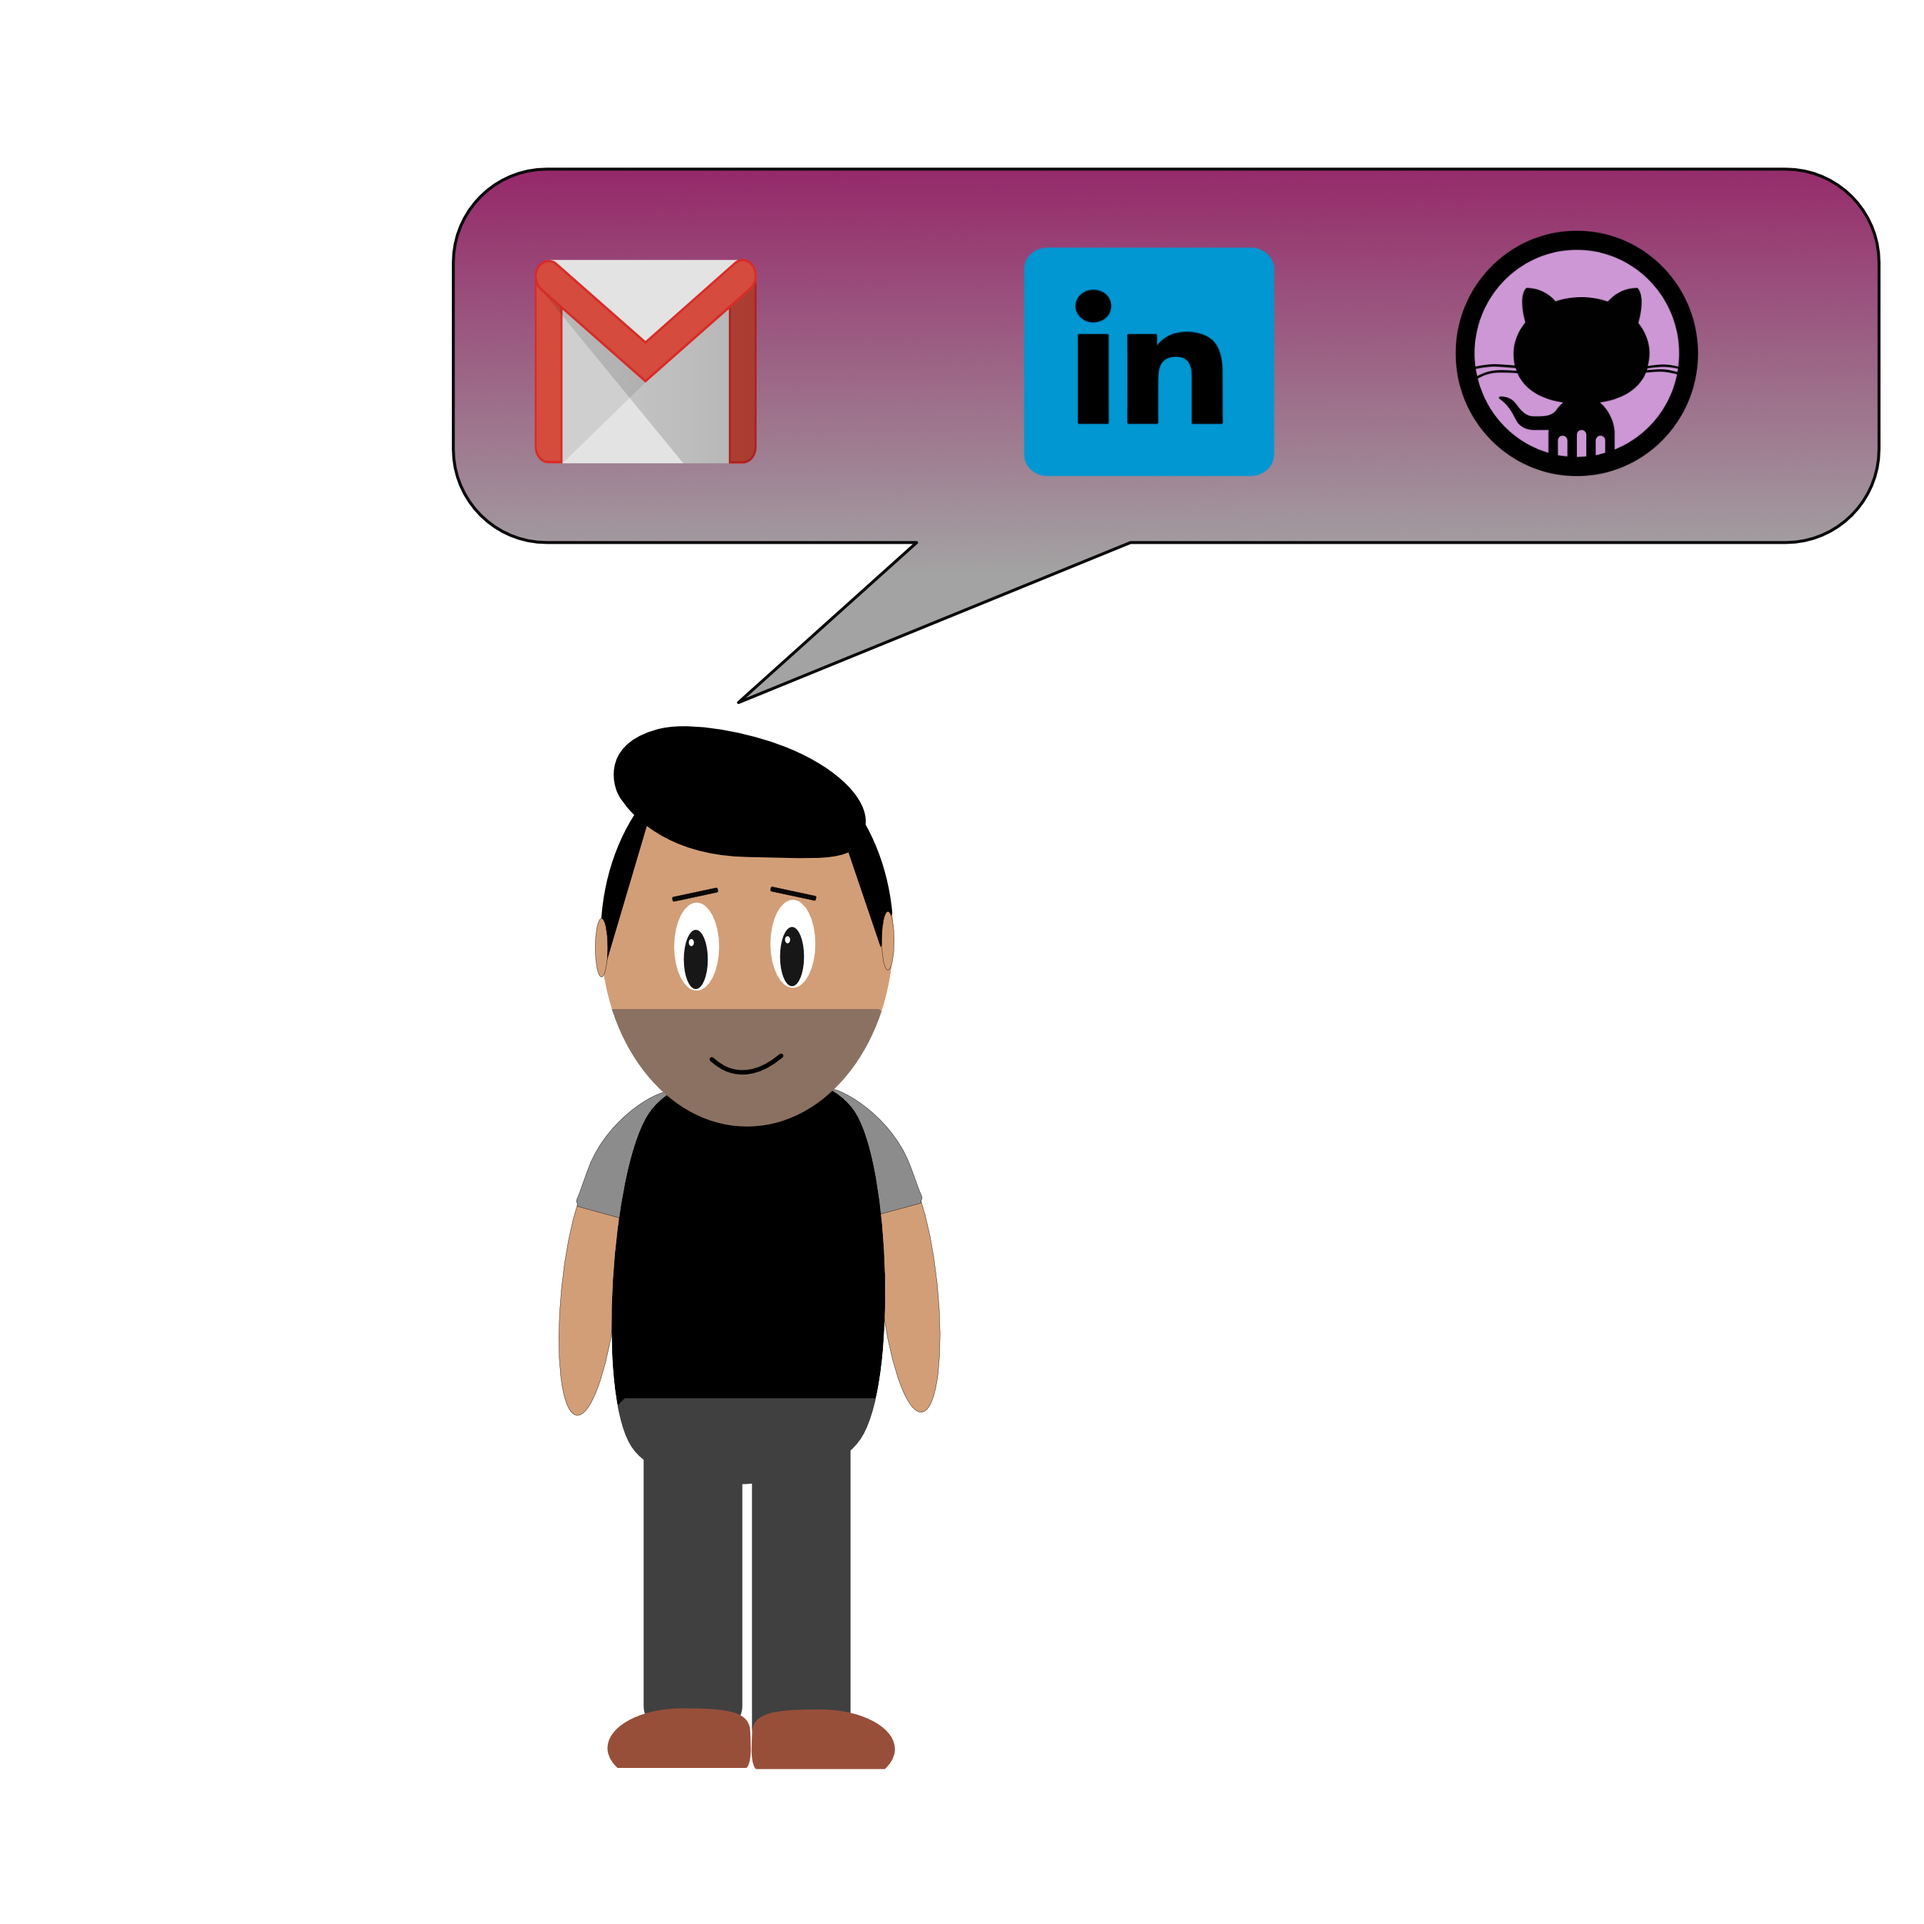
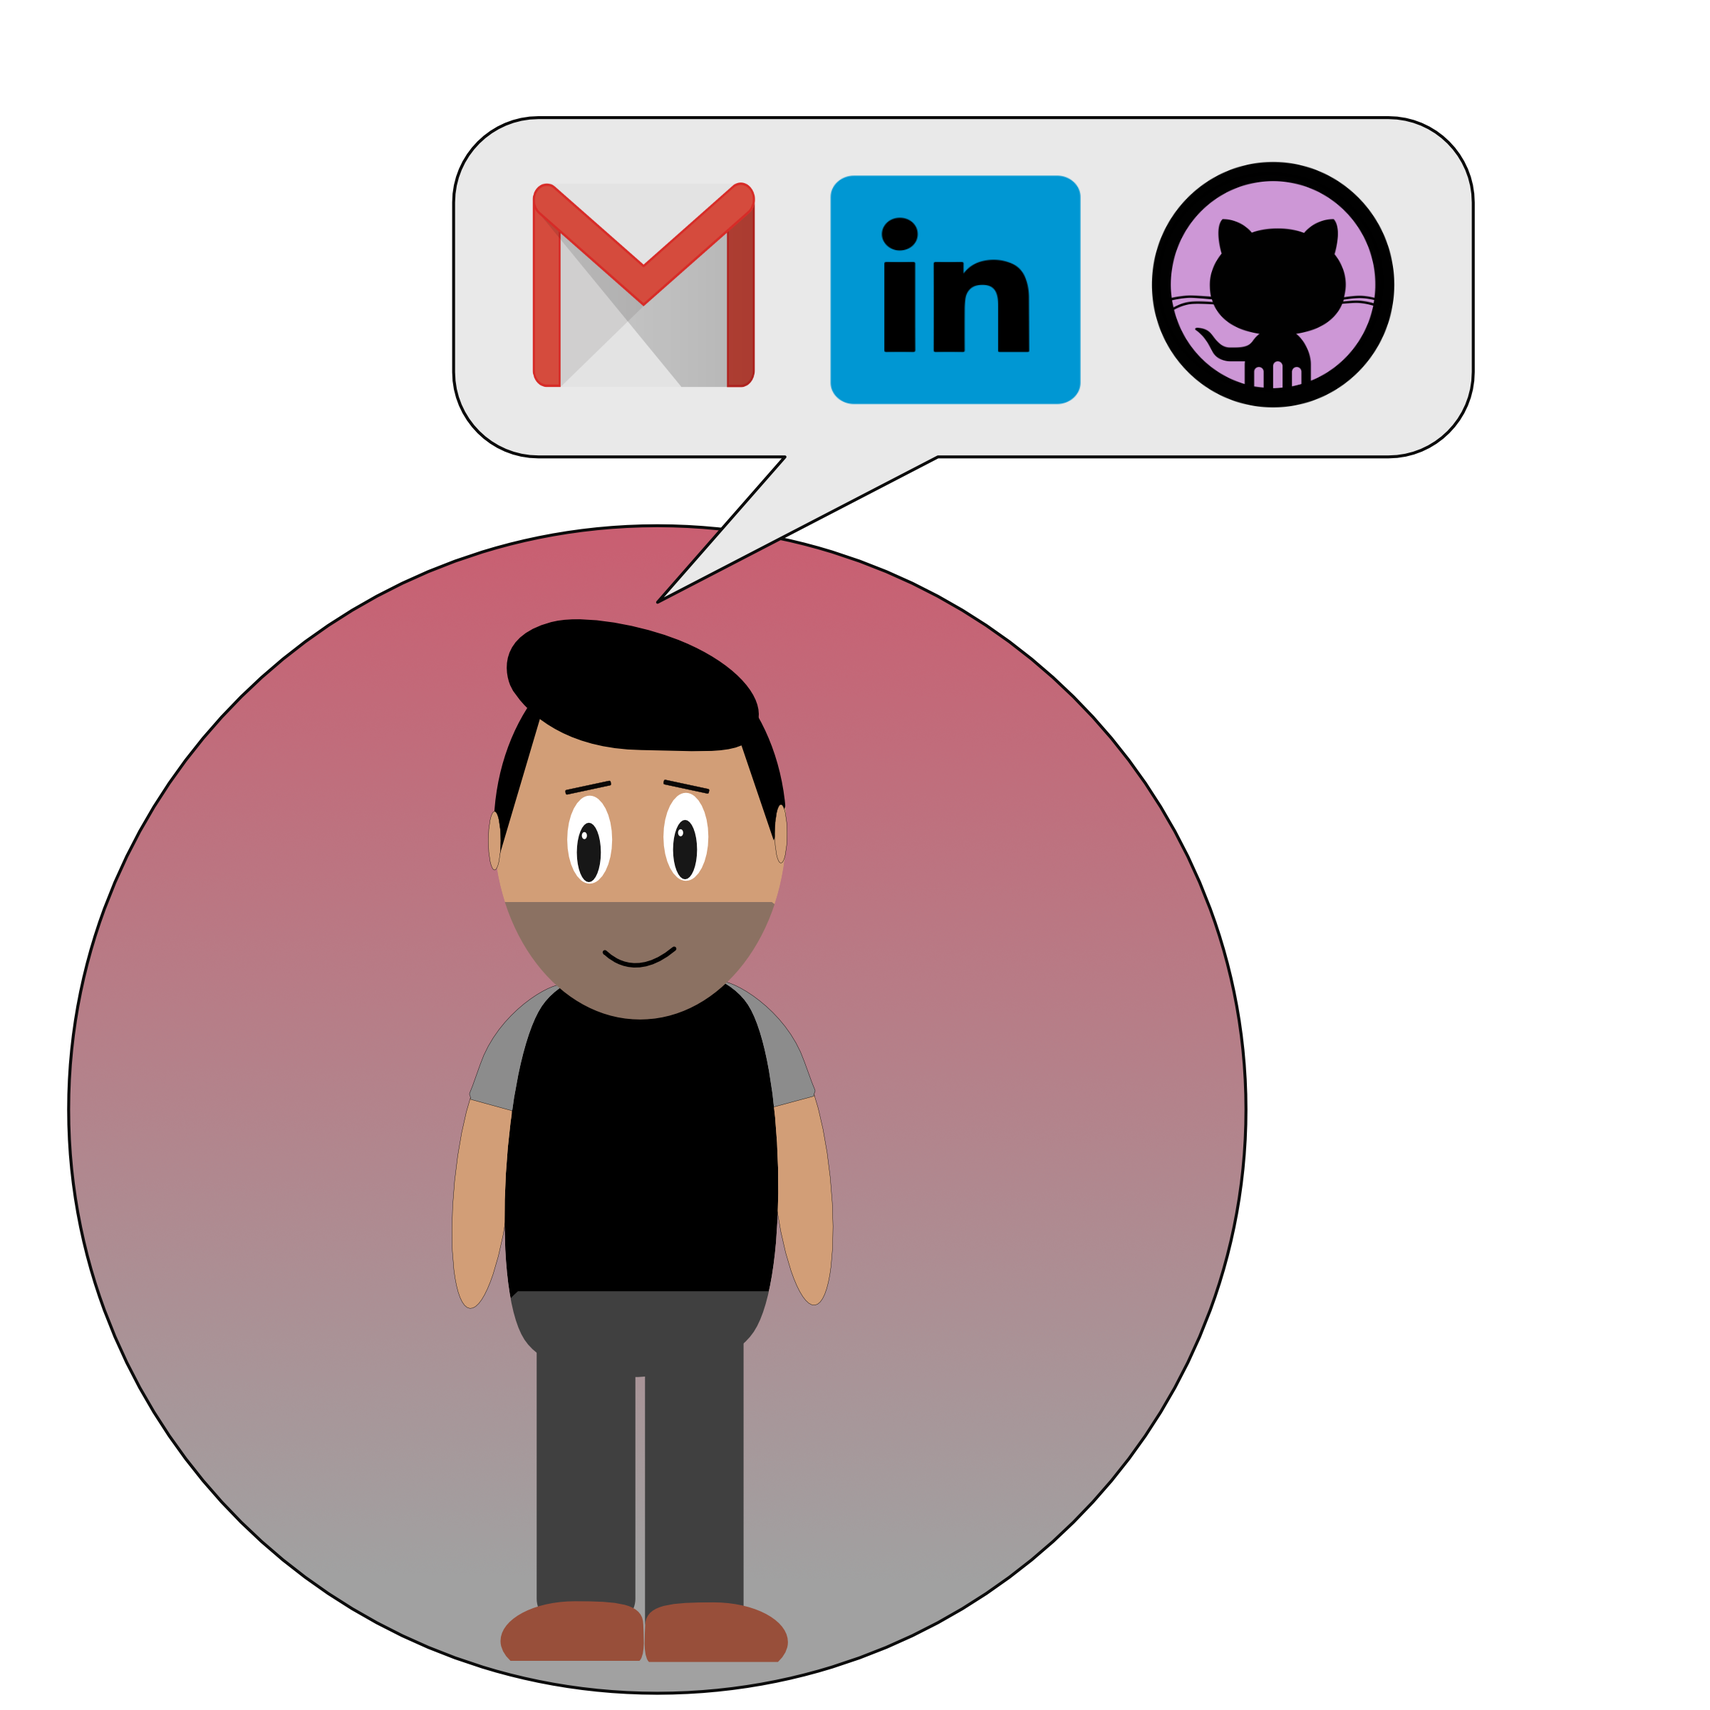
contact styling

diff --git a/index.html b/index.html
@@ -152,24 +152,24 @@
   <div id='block-4'>
     <div class='container-fluid'>
       <div class='wrapper'>
-        <h2 style='text-align: center'> Contact Me</h2>
+        <h2 style='text-align: center'> Let's talk!</h2>
         <div class='row'>
-          <div class='col-lg-1'></div>
-          <div class='col-lg-4'>
-            <img src='pics/Nimacontact4.png' class='img-responsive'>
-          </div>
-          <div class='col-lg-5' style='padding: 30px'>
+          <div class='col-lg-2'></div>
+          <div class='col-lg-4' style='padding: 30px'>
             <div id='contactlinks'>
-              <h1 style='font-size: 2em'>
+              <h2 >
                 <span><i class="fa fa-google" style="font-size:2em; color: red;"></i> NimSarraf@gmail.com</span>
               </h1>
-              <h1 style='font-size: 2em'>
+              <h2 >
                 <span><i class="fa fa-linkedin" style="font-size:2em; color: #0077B5;"></i><a href="https://www.linkedin.com/in/nima-sarrafzadeh-47339a11a/"> Linkedin</a></span>
               </h1>
-              <h1 style='font-size: 2em'>
+              <h2 >
                 <span><i class="fa fa-github" style="font-size:2em; color: purple;"></i><a href="https://github.com/NimaSarraf"> Github</a></span>
               </h1>
             </div>
+          </div>
+          <div class='col-lg-4'>
+            <img src='pics/Nimacontact.png' class='img-responsive'>
           </div>
         </div>
       </div>

diff --git a/style.css b/style.css
@@ -15,7 +15,7 @@ background-image: linear-gradient(-180deg, #6190D0 0%, #BDBDBD 100%);
 }
 
 #block-4{
-
+ background-color: white;
 }
 
 #introPic {
@@ -24,8 +24,7 @@ background-image: linear-gradient(-180deg, #6190D0 0%, #BDBDBD 100%);
 }
 
 #contactlinks{
-background-color: linear-gradient(-180deg, #31BC9E 0%, #A9A9A9 100%);
-vertical-align: center;
+padding-top: 20px;
 }
 
 .wrapper{
@@ -56,14 +55,15 @@ a{
 }
 
 h2 {
-  color: black;
+  color: #262C2E;
   font-family: 'Raleway', sans-serif;
   font-weight: bold;
-  font-size: 2.5em;
+  font-size: 3em;
   padding: 3px;
 }
 
 h1 {
+  color: #262C2E;
   font-family: 'Raleway', sans-serif;
   font-weight: bold;
   font-size: 1em;
